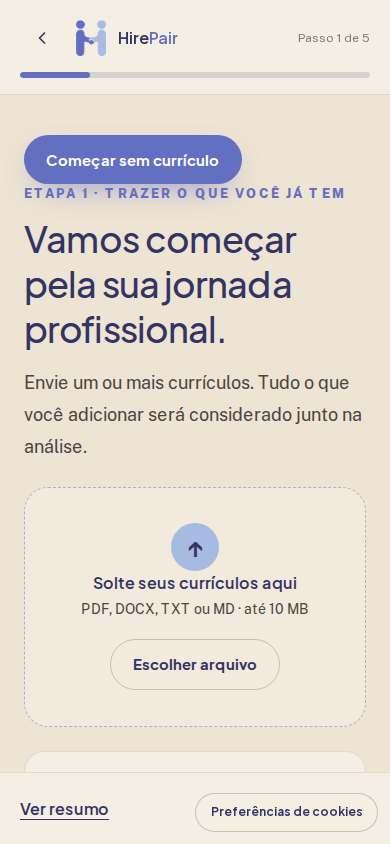
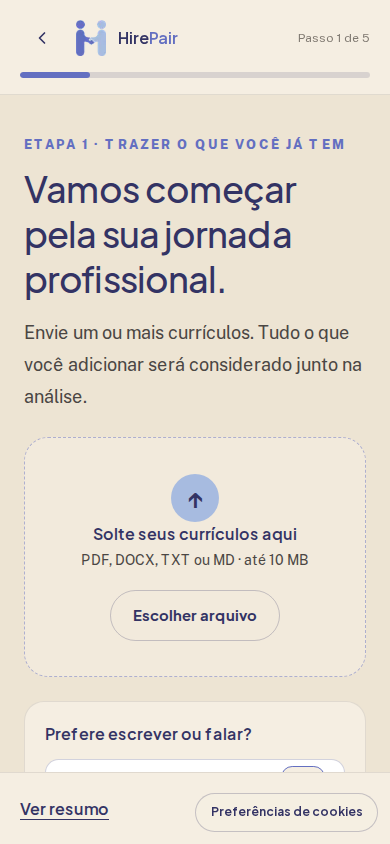
fix(56): tornar opcao sem curriculo secundaria

diff --git a/apps/web/src/app/conversa/_components/conversation-page-client.tsx b/apps/web/src/app/conversa/_components/conversation-page-client.tsx
@@ -388,20 +388,6 @@ export function ConversationPageClient() {
       <div className="w-full min-w-0">
         {result?.preparation?.writing?.status !== 'approved' && <ExitJourney />}
         {localError ? <p role="alert">{localError}</p> : null}
-        {phase === 'materials' && documents.length === 0 && (
-          <button
-            className="button button-primary"
-            type="button"
-            onClick={() => {
-              const url = new URL(window.location.href);
-              url.searchParams.set('sem-curriculo', '1');
-              window.history.replaceState(window.history.state, '', url);
-              transitionTo('job');
-            }}
-          >
-            Começar sem currículo
-          </button>
-        )}
         <ConversationStep
           phase={phase}
           documents={documents}
@@ -450,6 +436,20 @@ export function ConversationPageClient() {
             setResult((value) => (value ? { ...value, preparation: session } : value))
           }
         />
+        {phase === 'materials' && documents.length === 0 && (
+          <button
+            className="journey-without-resume"
+            type="button"
+            onClick={() => {
+              const url = new URL(window.location.href);
+              url.searchParams.set('sem-curriculo', '1');
+              window.history.replaceState(window.history.state, '', url);
+              transitionTo('job');
+            }}
+          >
+            Começar sem currículo
+          </button>
+        )}
       </div>
     </WizardShell>
   );

diff --git a/apps/web/src/app/conversa/_components/conversation-page-client.test.tsx b/apps/web/src/app/conversa/_components/conversation-page-client.test.tsx
@@ -306,6 +306,12 @@ it('starts without documents, saves the same session and restores the relevant i
   restore.mockResolvedValue({ draft: initialDraft });
   const view = render(<ConversationPageClient />);
   await screen.findByText('Começar sem currículo');
+  const skipResume = screen.getByRole('button', { name: 'Começar sem currículo' });
+  expect(
+    screen.getByText('Clear').compareDocumentPosition(skipResume) &
+      Node.DOCUMENT_POSITION_FOLLOWING,
+  ).toBeTruthy();
+  expect(skipResume).toHaveClass('journey-without-resume');
   fireEvent.click(screen.getByText('Começar sem currículo'));
   expect(window.location.search).toContain('sem-curriculo=1');
   await screen.findByText('Analyze prepared');

diff --git a/apps/web/src/app/conversa/conversa.css b/apps/web/src/app/conversa/conversa.css
@@ -283,6 +283,18 @@
   min-width: 0;
   padding: 1.5rem;
 }
+.journey-without-resume {
+  display: block;
+  margin: 2rem auto 0;
+  padding: 0.5rem;
+  color: var(--color-text-muted);
+  font-size: 0.875rem;
+  text-decoration: underline;
+  text-underline-offset: 0.2em;
+}
+.journey-without-resume:hover {
+  color: var(--color-primary);
+}
 .wizard-preview-desktop {
   display: none;
 }
